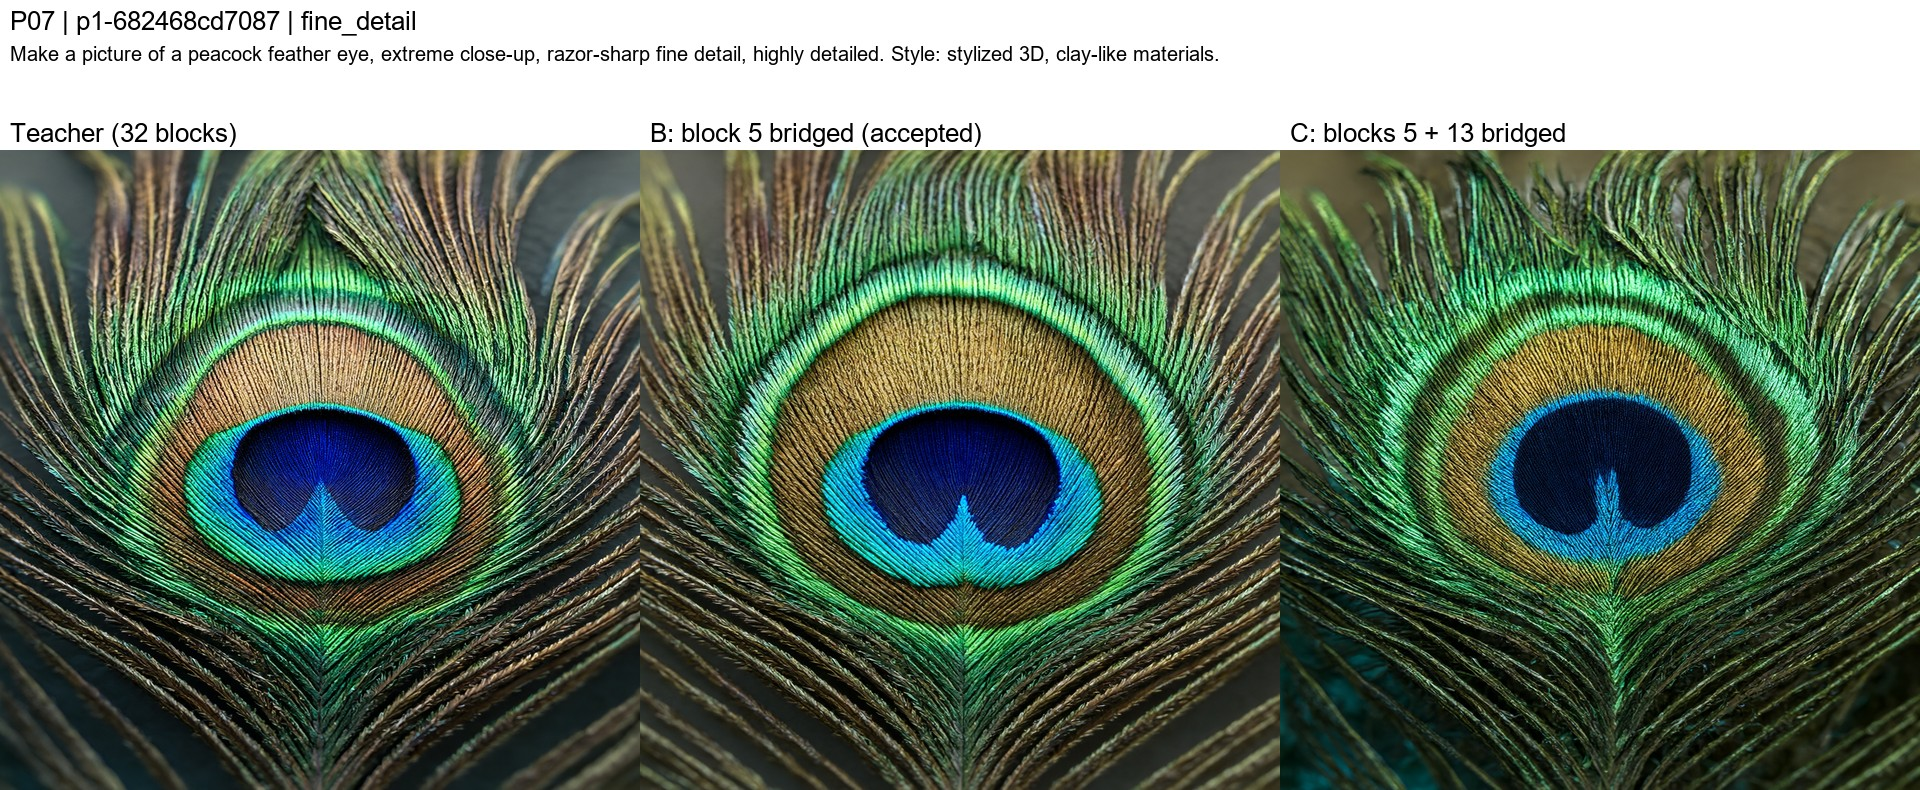
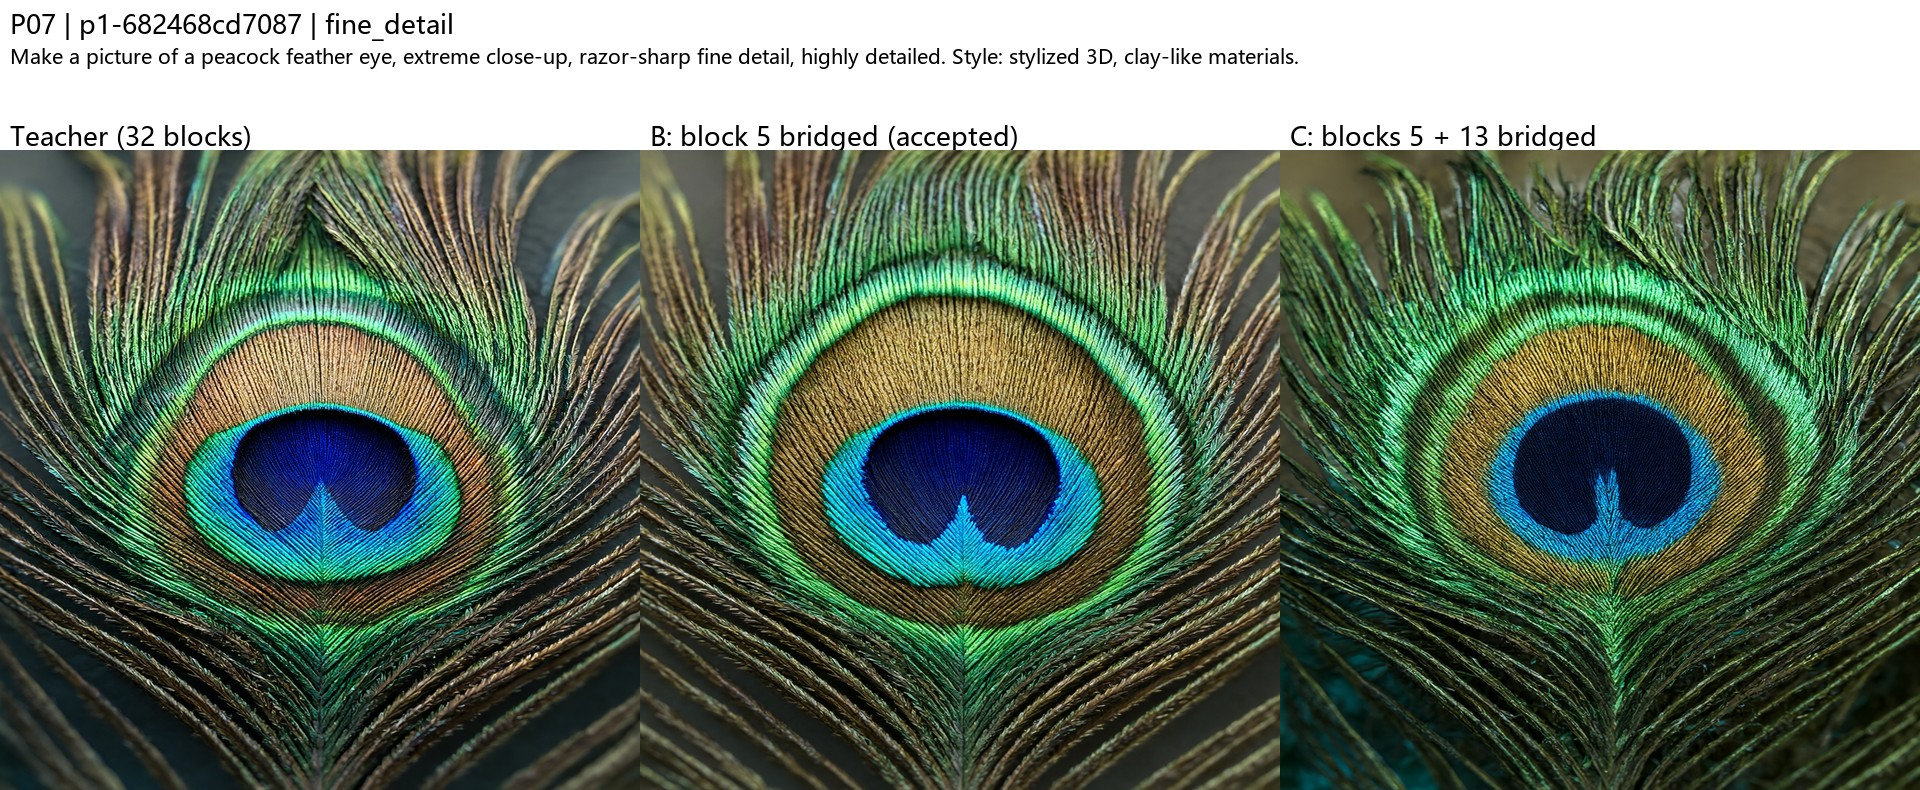
Qualitative teacher/B/C review: block-13 bridge visibly degrades detail and text

diff --git a/tools/publish_site_scan.py b/tools/publish_site_scan.py
@@ -58,6 +58,16 @@ def bridge13():
     return protocol, None
 
 
+def review_parts():
+    path = ROOT / 'data/phase7/bridge_images/review.json'
+    if not path.exists():
+        return []
+    r = json.loads(path.read_text(encoding='utf-8'))
+    c = r['c_vs_b']
+    return [f'<p class="summary"><b>Qualitative image check.</b> Because the teacher is not a perfect reference, we also rendered the teacher, B and C on the 30 earlier Phase 7 prompts with matched seeds (the regenerated teacher images matched the earlier renders byte for byte) and judged each image against its prompt. C was worse than B on <b>{c["worse"]}</b> prompts, similar on {c["same"]} and better on {c["better"]}. The failures appear at unchanged composition: hair smearing into the jaw, circuit-board traces dissolving, an incoherent house cross-section, misspelled signs (&ldquo;Happy Birtliday Emma&rdquo;, &ldquo;The Rusty Achor&rdquo;) where B is exact, and a missing alarm clock. B stays close to the teacher.</p>',
+            '<p class="note">Unblinded review by an AI visual reviewer, one seed per prompt; a screen, not a benchmark.</p>']
+
+
 def bridge13_section(protocol, report):
     g, base = protocol['velocity_gates'], protocol['base']
     c = report['candidate']
@@ -78,6 +88,7 @@ def bridge13_section(protocol, report):
              f'<p class="summary">Block 13 ranked first inside the accepted student, so we replaced it with a rank-256 bridge while keeping the block-5 bridge and every other weight frozen. Pass rules were committed before the run. The bridge was fitted to block 13’s own inputs and outputs captured inside the student: 60 training prompts at three moments plus 600 early training examples. The 10 check prompts were used only to choose the checkpoint. The fit worked on its own terms: the hidden-state objective fell from {fit["identity_validation"]:.4f} (plain skip) to {fit["selected_validation"]:.4f}, a {100 * (1 - fit["selected_validation"] / fit["identity_validation"]):.0f}% reduction.</p>',
              table('Candidate C (blocks 5 and 13 bridged, 30 blocks): velocity error against the teacher and the preregistered limits',
                    ['Measure', 'C', 'Limit', 'Result'], rows),
+             *review_parts(),
              f'<div class="verdict"><p><b>{"All velocity gates pass." if passed else "Candidate C fails the velocity gates; it is not promoted and no images or timings were produced for it."}</b> Skipping block 13 gives {pct(skip)} on the check prompts; the bridge brings it only to {pct(gate10)}, against {pct(base["gate10_mean_relative_l2"])} for the accepted student. Middle and late moments stay within limits; the early moment does not. A likely reason: the bridge acts on each token separately, so it cannot reproduce the cross-token attention a mid-network block performs, and most of the damage of removing block 13 remains.</p></div>']
     return parts
 

diff --git a/tools/build_bridge_sheets.py b/tools/build_bridge_sheets.py
@@ -32,8 +32,10 @@ def main():
     for row in report['rows']:
         old = next((h for n, h in earlier_hashes.items() if n.startswith(row['source_id']) and 'teacher' in n), None)
         matches.append(None if old is None else old == row['teacher']['sha256'])
-    font = ImageFont.truetype('C:/Windows/Fonts/arial.ttf', 20)
-    big = ImageFont.truetype('C:/Windows/Fonts/arial.ttf', 26)
+    # A CJK-capable font so the Chinese prompts render.
+    face = next((f for f in ('C:/Windows/Fonts/msyh.ttc', 'C:/Windows/Fonts/simsun.ttc') if Path(f).exists()), 'C:/Windows/Fonts/arial.ttf')
+    font = ImageFont.truetype(face, 20)
+    big = ImageFont.truetype(face, 26)
     sheets = run.parent / 'sheets'
     sheets.mkdir(exist_ok=True)
     tile = 640
@@ -41,7 +43,7 @@ def main():
         canvas = Image.new('RGB', (3 * tile, tile + 150), 'white')
         draw = ImageDraw.Draw(canvas)
         draw.text((10, 6), f"P{index + 1:02d} | {row['source_id']} | {row.get('subdimension', '')}", font=big, fill='black')
-        for line, text in enumerate(textwrap.wrap(row['prompt'], 170)[:3]):
+        for line, text in enumerate(textwrap.wrap(row['prompt'], 170 if row['prompt'].isascii() else 85)[:3]):
             draw.text((10, 42 + 24 * line), text, font=font, fill='black')
         for column, variant in enumerate(('teacher', 'B', 'C')):
             label = {'teacher': 'Teacher (32 blocks)', 'B': 'B: block 5 bridged (accepted)', 'C': 'C: blocks 5 + 13 bridged'}[variant]
